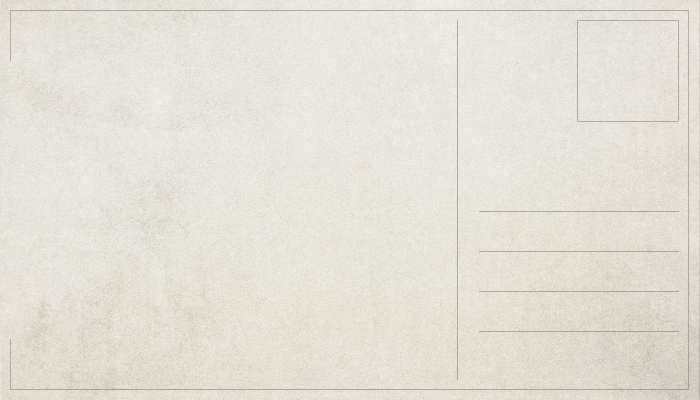
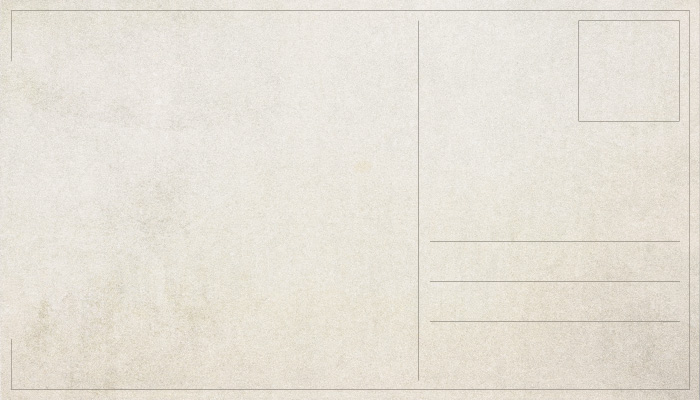
Fixed cross browser animations Changed postcard address layout

diff --git a/rsvp.css b/rsvp.css
@@ -153,6 +153,10 @@ body {
 		50% { -moz-transform: rotate(2deg); }
 		0%, 100% { -moz-transform: rotate(5deg); }
 	}
+	@-ms-keyframes envelope-sending {
+		50% { -moz-transform: rotate(2deg); }
+		0%, 100% { -moz-transform: rotate(5deg); }
+	}
 	@-o-keyframes envelope-sending {
 		50% { -o-transform: rotate(2deg); }
 		0%, 100% { -o-transform: rotate(5deg); }
@@ -163,17 +167,17 @@ body {
 	}
 	#envelope.sending {
 		-webkit-animation: envelope-sending 0.75s infinite ease;
-		-moz-animation-name: envelope-sending 0.75s infinite ease;
-		-ms-animation-name: envelope-sending 0.75s infinite ease;
-		-o-animation-name: envelope-sending 0.75s infinite ease;
-		animation-name: envelope-sending 0.75s infinite ease;
+		-moz-animation: envelope-sending 0.75s infinite ease;
+		-ms-animation: envelope-sending 0.75s infinite ease;
+		-o-animation: envelope-sending 0.75s infinite ease;
+		animation: envelope-sending 0.75s infinite ease;
 	}
 	#envelope.success {
 		-webkit-animation: bounceOutRight 0.75s ease;
-		-moz-animation-name: bounceOutRight 0.75s ease;
-		-ms-animation-name: bounceOutRight 0.75s ease;
-		-o-animation-name: bounceOutRight 0.75s ease;
-		animation-name: bounceOutRight 0.75s ease;
+		-moz-animation: bounceOutRight 0.75s ease;
+		-ms-animation: bounceOutRight 0.75s ease;
+		-o-animation: bounceOutRight 0.75s ease;
+		animation: bounceOutRight 0.75s ease;
 	}
 	#airmail {
 		bottom: 18px;
@@ -299,7 +303,7 @@ body {
 		font-size: 0.8em;
 		height: 40px;
 		outline: none;
-		padding-bottom: 0.5em;
+		padding-bottom: 0.25em;
 		width: 207px;
 	}
 	#rsvp > form > p > input[type="submit"]:hover {
@@ -329,42 +333,98 @@ body {
 
 #postcard {
 	cursor: pointer;
-	position: absolute;
-	-webkit-perspective: 1200;
 	-moz-perspective: 1200;
+	-ms-perspective: 1200;
+	-o-perspective: 1200;
+	-webkit-perspective: 1200;
 	perspective: 1200;
+	position: absolute;
 	visibility: hidden;
 }
 #postcard #front,
 #postcard #back {
-	-webkit-transform-style: preserve-3d;
-	-webkit-backface-visibility: hidden;
 	-moz-transform-style: preserve-3d;
+	-ms-transform-style: preserve-3d;
+	-o-transform-style: preserve-3d;
+	-webkit-transform-style: preserve-3d;
+	transform-style: preserve-3d;
+
 	-moz-backface-visibility: hidden;
-	-o-transition: all .4s ease-in-out;
-	-ms-transition: all .4s ease-in-out;
+	-ms-backface-visibility: hidden;
+	-o-backface-visibility: hidden;
+	-webkit-backface-visibility: hidden;
+	backface-visibility: hidden;
+
 	-moz-transition: all .4s ease-in-out;
+	-ms-transition: all .4s ease-in-out;
+	-o-transition: all .4s ease-in-out;
 	-webkit-transition: all .4s ease-in-out;
 	transition: all .4s ease-in-out;
 }
 #postcard.show_front #front {
-	-webkit-transform: rotateY(0deg) rotate(2deg);
+	z-index: 20;
 	-moz-transform: rotateY(0deg) rotate(2deg);
+	-ms-transform: rotateY(0deg) rotate(2deg);
+	-o-transform: rotateY(0deg) rotate(2deg);
+	-webkit-transform: rotateY(0deg) rotate(2deg);
+	transform: rotateY(0deg) rotate(2deg);
 }
 #postcard.show_front #back {
-	-webkit-transform: rotateY(-180deg) rotate(-2deg);
+	z-index: 10;
 	-moz-transform: rotateY(-180deg) rotate(-2deg);
+	-ms-transform: rotateY(-180deg) rotate(-2deg);
+	-o-transform: rotateY(-180deg) rotate(-2deg);
+	-webkit-transform: rotateY(-180deg) rotate(-2deg);
+	transform: rotateY(-180deg) rotate(-2deg);
 }
 #postcard.show_back #front {
-	-webkit-transform: rotateY(180deg) rotate(2deg);
+	z-index: 20;
 	-moz-transform: rotateY(180deg) rotate(2deg);
+	-ms-transform: rotateY(180deg) rotate(2deg);
+	-o-transform: rotateY(180deg) rotate(2deg);
+	-webkit-transform: rotateY(180deg) rotate(2deg);
+	transform: rotateY(180deg) rotate(2deg);
 }
 #postcard.show_back #back {
-	-webkit-transform: rotateY(0deg) rotate(-2deg);
+	z-index: 30;
 	-moz-transform: rotateY(0deg) rotate(-2deg);
+	-ms-transform: rotateY(0deg) rotate(-2deg);
+	-o-transform: rotateY(0deg) rotate(-2deg);
+	-webkit-transform: rotateY(0deg) rotate(-2deg);
+	transform: rotateY(0deg) rotate(-2deg);
 }
 
 #front {
+	background:
+		-moz-radial-gradient(
+			120% 105%,
+			cover,
+			transparent 50%,
+			rgba(255, 255, 255, 0.07) 69.5%,
+			transparent 70%,
+			transparent 100%
+		) no-repeat 0px 0px,
+		url(images/postcard_photo01.jpg) no-repeat white;
+	background:
+		-ms-radial-gradient(
+			120% 105%,
+			cover,
+			transparent 50%,
+			rgba(255, 255, 255, 0.07) 69.5%,
+			transparent 70%,
+			transparent 100%
+		) no-repeat 0px 0px,
+		url(images/postcard_photo01.jpg) no-repeat white;
+	background:
+		-o-radial-gradient(
+			120% 105%,
+			cover,
+			transparent 50%,
+			rgba(255, 255, 255, 0.07) 69.5%,
+			transparent 70%,
+			transparent 100%
+		) no-repeat 0px 0px,
+		url(images/postcard_photo01.jpg) no-repeat white;
 	background:
 		-webkit-radial-gradient(
 			120% 105%,
@@ -379,13 +439,6 @@ body {
 	height: 400px;
 	left: 120px;
 	position: absolute;
-	/*
-	-moz-transform: rotate(1deg);
-	-ms-transform: rotate(1deg);
-	-o-transform: rotate(1deg);
-	-webkit-transform: rotate(1deg);
-	transform: rotate(1deg);
-	*/
 	width: 700px;
 }
 
@@ -409,13 +462,6 @@ body {
 	height: 400px;
 	left: 120px;
 	position: absolute;
-	/*
-	-moz-transform: rotate(1deg);
-	-ms-transform: rotate(1deg);
-	-o-transform: rotate(1deg);
-	-webkit-transform: rotate(1deg);
-	transform: rotate(1deg);
-	*/
 	width: 700px;
 }
 
@@ -440,9 +486,9 @@ body {
 
 #recipient {
 	position: absolute;
-	top: 180px;
-	right: 21px;
-	width: 201px;
+	top: 207px;
+	right: 20px;
+	width: 240px;
 }
 
 #subscriber,
@@ -452,7 +498,6 @@ body {
 	font-size: 2em;
 	font-weight: normal;
 	line-height: 40px;
-	margin-top: -4px;
 }
 
 #address {

diff --git a/rsvp.js b/rsvp.js
@@ -54,7 +54,7 @@ $(function () {
 						setTimeout(function () {
 							$("#postcard").toggleClass("show_front").toggleClass("show_back");
 						}, 1000);
-					}, 500);
+					}, 400);
 				},
 				error: function (xhr, type) {
 					$("#envelope").removeClass();
@@ -62,10 +62,10 @@ $(function () {
 					$("#rsvp").css({visibility: "visible"}).removeClass().addClass("animated flipInX");
 					setTimeout(function () {
 						$("#sticky").css({visibility: "visible"}).addClass("animated rollIn");
-					}, 600);
+					}, 400);
 				}
 			});
-		}, 600);
+		}, 400);
 	});
 });
 
